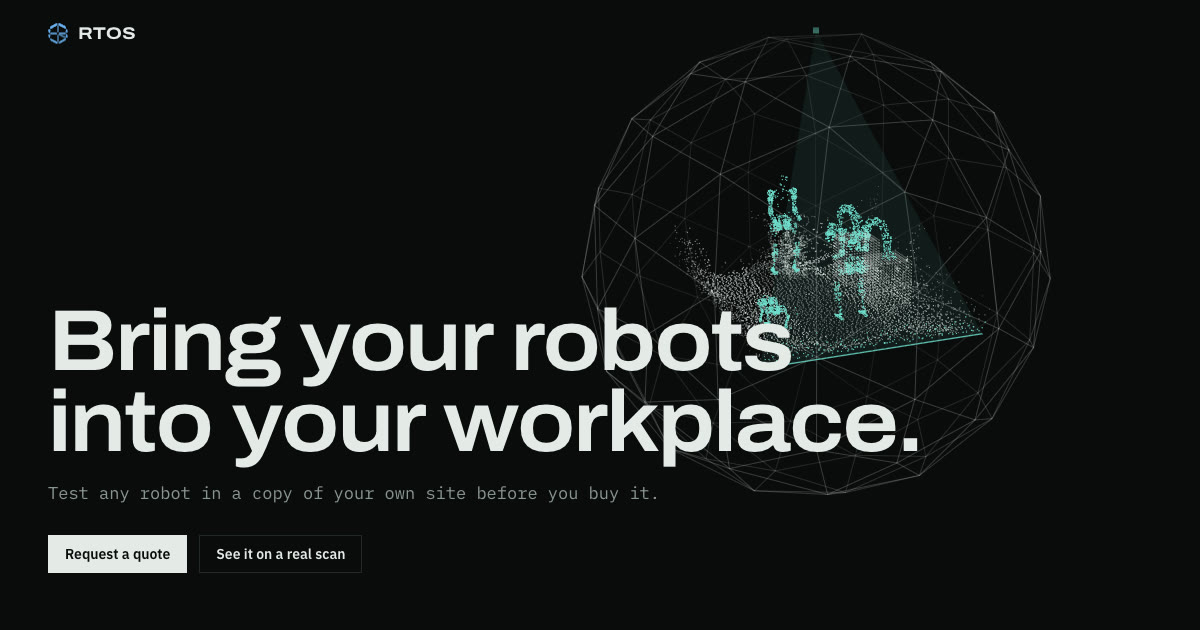
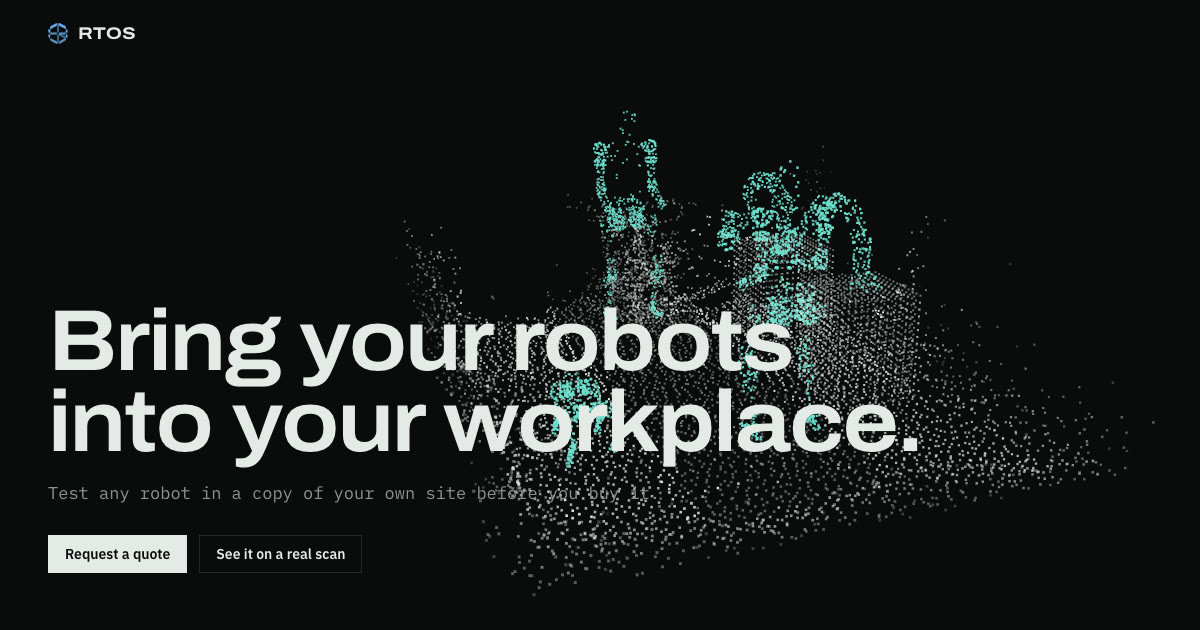
Recapture the link preview from the open hero
Same setup as e5df5e9 (1200x630, 7 s in, nav links hidden), now on 740fcc1's hero without the dome. og:image goes to ?v=3.

diff --git a/index.html b/index.html
@@ -9,7 +9,7 @@
 <meta property="og:url" content="https://rtos-ecru.vercel.app/">
 <meta property="og:title" content="RTOS · Real to Simulation">
 <meta property="og:description" content="Test any robot in a copy of your own site before you buy it.">
-<meta property="og:image" content="https://rtos-ecru.vercel.app/media/og.jpg?v=2">
+<meta property="og:image" content="https://rtos-ecru.vercel.app/media/og.jpg?v=3">
 <meta property="og:image:width" content="1200">
 <meta property="og:image:height" content="630">
 <meta name="twitter:card" content="summary_large_image">
